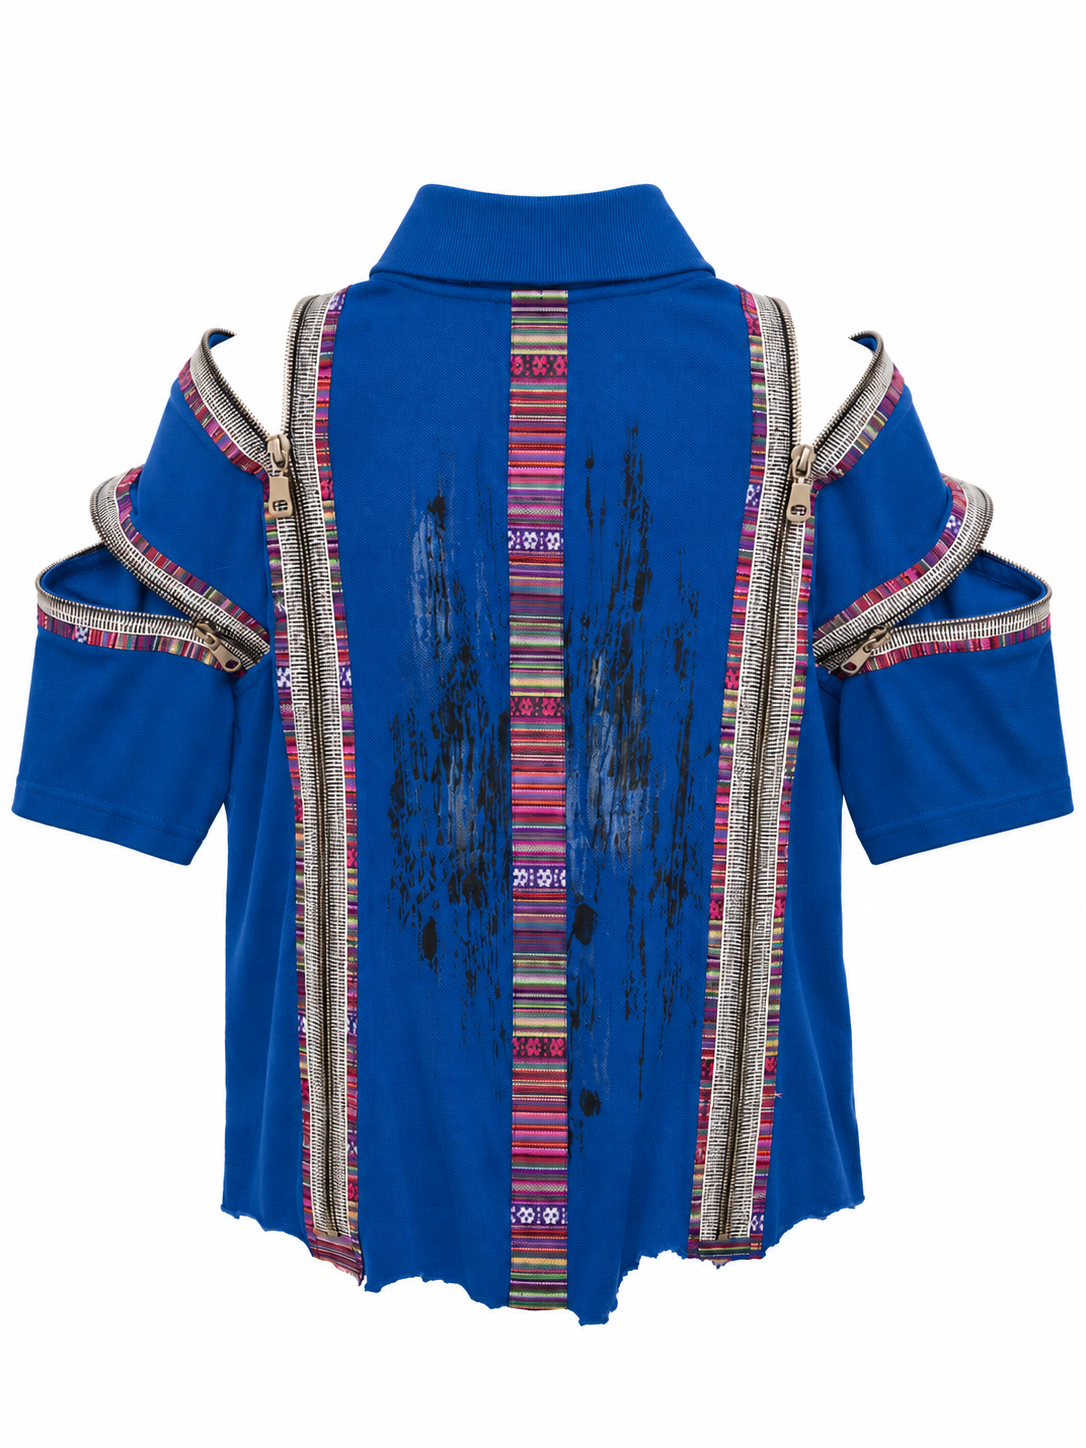
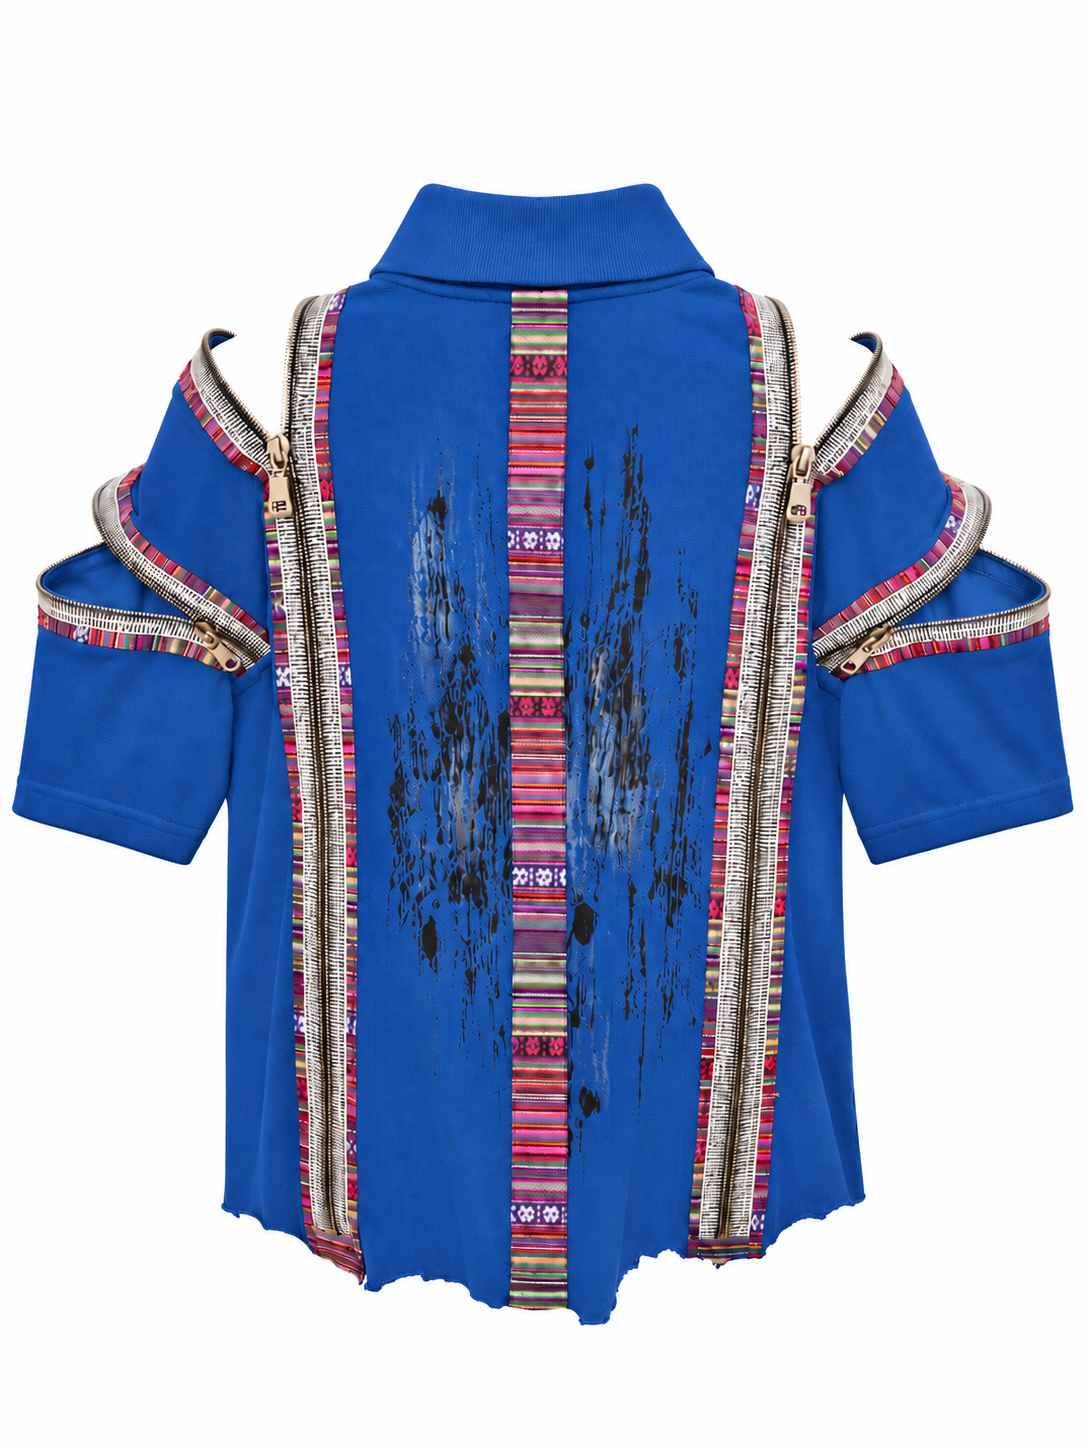
Save reform case images, unified blue colors and cropped vest comparisons

Changed region(s): [[0.0304, 0.1243, 0.9724, 0.9323]]

diff --git a/web/src/components/real-case-compare.tsx b/web/src/components/real-case-compare.tsx
@@ -3,8 +3,10 @@
 import { useRef, useState, type PointerEvent } from "react";
 import { ChevronsLeftRight } from "lucide-react";
 
-/** Display crops only: the supplied photographs, colors and garment details remain untouched. */
-export function RealCaseCompare() {
+/** Front uses the existing photos; back pairs the shared before with a flattened after. */
+export function RealCaseCompare({ side = "front" }: { side?: "front" | "back" }) {
+  const isBack = side === "back";
+  const label = isBack ? "뒷면" : "앞면";
   const [split, setSplit] = useState(50);
   const frame = useRef<HTMLDivElement>(null);
   const dragging = useRef(false);
@@ -14,25 +16,25 @@ export function RealCaseCompare() {
   };
 
   return (
-    <figure aria-label="파란 폴로셔츠의 실제 리폼 전후 사진">
+    <figure aria-label={`파란 폴로셔츠 ${label} 리폼 전후 비교`}>
       <div ref={frame} className="relative isolate aspect-square overflow-hidden rounded-[22px] bg-white select-none">
         {/* The selected full after photo uses the same display size as the before crop.
             No separate shortening; both sleeves remain visible. */}
-        <svg role="img" aria-label="리폼 후: 양쪽 소매와 고무줄 밑단이 보이는 리폼 옷" viewBox="-24 -24 688 688" className="absolute inset-0 h-full w-full">
-          <image href="/cases/blue-polo-rivets-hd.png" width="640" height="640" />
+        <svg role="img" aria-label={`리폼 후 ${label}${isBack ? ": 하트 무늬와 고무줄 밑단, 평면화 이미지" : ""}`} viewBox="-24 -24 688 688" className="absolute inset-0 h-full w-full">
+          <image href={isBack ? "/cases/blue-polo-back-frontmatch-v2.png" : "/cases/blue-polo-rivets-hd-unified.png"} width="640" height="640" />
         </svg>
         <div className="absolute inset-0 bg-white" style={{ clipPath: `inset(0 ${100 - split}% 0 0)` }}>
           {/* Full source photograph including both sleeves, with breathing room. */}
-          <svg role="img" aria-label="리폼 전: 흰색 가슴 글씨가 있는 원래 파란 폴로셔츠" viewBox="-24 -24 688 688" className="h-full w-full">
-            <svg x="0" y="0" width="640" height="640" viewBox="0 0 640 640" overflow="hidden">
+          <svg role="img" aria-label={`리폼 전 ${label}${isBack ? " AI 재현" : ": 흰색 가슴 글씨가 있는 원래 파란 폴로셔츠"}`} viewBox="-24 -24 688 688" className="h-full w-full">
+            {isBack ? <image href="/cases/blue-polo-common/before-back-relaxed-unified.png" width="640" height="640" /> : <svg x="0" y="0" width="640" height="640" viewBox="0 0 640 640" overflow="hidden">
               <image href="/cases/blue-polo-pair.png" width="1280" height="640" />
-            </svg>
+            </svg>}
           </svg>
         </div>
         <span className="pointer-events-none absolute left-3 top-3 rounded-full bg-black/65 px-3 py-1.5 text-xs font-semibold text-white">리폼 전</span>
         <span className="pointer-events-none absolute right-3 top-3 rounded-full bg-accent px-3 py-1.5 text-xs font-semibold text-white">리폼 후</span>
         <div
-          role="slider" tabIndex={0} aria-label="실제 리폼 전후 비교" aria-valuemin={0} aria-valuemax={100}
+          role="slider" tabIndex={0} aria-label={`파란 PK티 ${label} 리폼 전후 비교 막대`} aria-valuemin={0} aria-valuemax={100}
           aria-valuenow={Math.round(split)} aria-valuetext={`리폼 전 ${Math.round(split)}%, 리폼 후 ${100 - Math.round(split)}%`}
           onPointerDown={(event) => { dragging.current = true; event.currentTarget.setPointerCapture(event.pointerId); move(event); }}
           onPointerMove={(event) => { if (dragging.current) move(event); }}
@@ -51,14 +53,18 @@ export function RealCaseCompare() {
             <ChevronsLeftRight size={22} aria-hidden />
           </span>
         </div>
-        <span className="pointer-events-none absolute bottom-3 left-3 rounded-full bg-white/95 px-3 py-1.5 text-xs font-bold text-ink">실제 리폼 사례</span>
+        <span className="pointer-events-none absolute bottom-3 left-3 rounded-full bg-white/95 px-3 py-1.5 text-xs font-bold text-ink">{isBack ? "뒷면 · 평면 비교" : "실제 리폼 사례"}</span>
       </div>
       <figcaption className="mt-3 text-center text-[12.5px] leading-relaxed text-muted">
-        막대를 좌우로 움직여 실제 리폼 전후를 비교해 보세요.
-        <span className="mt-1 block text-[11.5px]">디자인 비교를 위해 옷의 크기와 길이를 맞췄어요.</span>
+        막대를 좌우로 움직여 {label} 리폼 전후를 비교해 보세요.
+        <span className="mt-1 block text-[11.5px]">{isBack ? "비포는 AI 재현 이미지, 애프터는 실제 사진을 평면화한 이미지입니다." : "디자인 비교를 위해 옷의 크기와 길이를 맞췄어요."}</span>
       </figcaption>
-      <a href="/cases/blue-polo-rivets-hd.png" target="_blank" rel="noopener noreferrer" className="mt-3 flex min-h-11 items-center justify-center rounded-full border border-line bg-white px-4 text-[13px] font-semibold text-ink hover:border-accent focus-visible:outline-2 focus-visible:outline-accent">
-        리폼 후 원본 크게 보기 · 목깃과 소매 리벳 ↗
+      <div className="mt-2 flex justify-center gap-4 text-xs font-semibold">
+        <button type="button" onClick={() => setSplit(100)} className="min-h-10 underline underline-offset-4">비포 전체 보기</button>
+        <button type="button" onClick={() => setSplit(0)} className="min-h-10 underline underline-offset-4">애프터 전체 보기</button>
+      </div>
+      <a href={isBack ? "/cases/blue-polo-back-frontmatch-v2.png" : "/cases/blue-polo-rivets-hd-unified.png"} target="_blank" rel="noopener noreferrer" className="mt-3 flex min-h-11 items-center justify-center rounded-full border border-line bg-white px-4 text-[13px] font-semibold text-ink hover:border-accent focus-visible:outline-2 focus-visible:outline-accent">
+        {isBack ? "뒷면 평면화 이미지 크게 보기 ↗" : "리폼 후 원본 크게 보기 · 목깃과 소매 리벳 ↗"}
       </a>
     </figure>
   );

diff --git a/web/src/components/blue-crop-compare.tsx b/web/src/components/blue-crop-compare.tsx
@@ -1,0 +1,37 @@
+"use client";
+
+import { useState } from "react";
+import { ChevronsLeftRight } from "lucide-react";
+
+export function BlueCropCompare({ side }: { side: "front" | "back" }) {
+  const [split, setSplit] = useState(50);
+  const label = side === "front" ? "앞면" : "뒷면";
+  return <figure>
+    <div className="relative isolate aspect-square overflow-hidden rounded-[22px] bg-white focus-within:ring-2 focus-within:ring-accent">
+      <svg role="img" aria-label={`크롭 조끼 리폼 후 ${label}`} viewBox="0 0 1000 1000" className="absolute inset-0 h-full w-full">
+        {/* Align collar tips and span to the before image using uniform scaling only. */}
+        <image href={`/cases/blue-crop/after-${side}-unified.png`} x="40" y={side === "front" ? 0 : 5} width="920" height="920" preserveAspectRatio="xMidYMid meet" />
+      </svg>
+      <div className="absolute inset-0 bg-white" style={{ clipPath: `inset(0 ${100 - split}% 0 0)` }}>
+        <svg role="img" aria-label={`리폼 전 ${label}${side === "back" ? " AI 재현" : ""}`} viewBox="0 0 1000 1000" className="h-full w-full">
+          {side === "front" ? (
+            <svg x="40" y="0" width="920" height="920" viewBox="0 0 640 640" overflow="hidden">
+              {/* Use exactly the same before photograph and crop as the home page. */}
+              <image href="/cases/blue-polo-pair.png" width="1280" height="640" />
+            </svg>
+          ) : <image href="/cases/blue-polo-common/before-back-relaxed-unified.png" x="40" y="5" width="920" height="920" preserveAspectRatio="xMidYMid meet" />}
+        </svg>
+      </div>
+      <span className="pointer-events-none absolute left-3 top-3 rounded-full bg-black/65 px-3 py-2 text-[11px] font-semibold text-white">비포{side === "back" ? " 재현" : ""} · {label}</span>
+      <span className="pointer-events-none absolute right-3 top-3 rounded-full bg-[#53634b] px-3 py-2 text-[11px] font-semibold text-white">애프터 · {label}</span>
+      <div className="pointer-events-none absolute inset-y-0 w-0.5 bg-white shadow-sm" style={{ left: `${split}%` }} />
+      <span className="pointer-events-none absolute top-1/2 grid h-12 w-12 -translate-x-1/2 -translate-y-1/2 place-items-center rounded-full bg-white text-ink shadow-lg" style={{ left: `clamp(24px, ${split}%, calc(100% - 24px))` }}><ChevronsLeftRight size={24} aria-hidden /></span>
+      <input type="range" min="0" max="100" value={split} onChange={event => setSplit(Number(event.target.value))} aria-label={`크롭 조끼 리폼 PK티 ${label} 비포 애프터 비교 막대`} aria-valuetext={`비포 ${split}%, 애프터 ${100 - split}%`} className="absolute inset-0 m-0 h-full w-full cursor-ew-resize opacity-0" />
+    </div>
+    <figcaption className="mt-3 text-center text-xs leading-6 text-muted">막대를 좌우로 움직여 {label}의 변화를 확인해 보세요.{side === "front" && <span className="block">비포 전체 보기에서 ‘대한민국 사회적가치 페스타’ 가슴 로고를 확인할 수 있어요.</span>}</figcaption>
+    <div className="mt-2 flex justify-center gap-4 text-xs font-semibold">
+      <button type="button" onClick={() => setSplit(100)} className="min-h-10 underline underline-offset-4">비포 전체 보기</button>
+      <button type="button" onClick={() => setSplit(0)} className="min-h-10 underline underline-offset-4">애프터 전체 보기</button>
+    </div>
+  </figure>;
+}

diff --git a/web/src/screens/landing.tsx b/web/src/screens/landing.tsx
@@ -58,6 +58,13 @@ export default function Landing() {
 
       <section className="px-5 pt-6">
         <RealCaseCompare />
+        <h2 className="mb-4 mt-8 text-[23px] font-bold">뒷면의 변화</h2>
+        <RealCaseCompare side="back" />
+        <Link href="/cases/blue-crop" className="mt-5 flex items-center gap-4 rounded-[20px] border border-line bg-white p-3">
+          {/* eslint-disable-next-line @next/next/no-img-element */}
+          <img src="/cases/blue-crop/after-front-unified.png" alt="소매를 잘라낸 짧은 파란 레이어드 조끼" className="h-24 w-24 rounded-xl object-cover object-top" />
+          <div className="flex-1"><p className="text-xs text-muted">파란 PK티 시리즈</p><p className="mt-1 font-semibold">티셔츠와 원피스 위에<br />가볍게 걸치는 크롭 조끼</p><p className="mt-2 text-xs text-muted">앞면·뒷면 비포 애프터 보기 →</p></div>
+        </Link>
         <Link href="/cases/knit-yarn" className="mt-5 flex items-center gap-4 rounded-[20px] border border-line bg-white p-3">
           {/* eslint-disable-next-line @next/next/no-img-element */}
           <img src="/cases/knit-yarn/after-long.png" alt="털실로 리폼한 니트 베스트" className="h-24 w-24 rounded-xl object-contain" />
@@ -68,12 +75,12 @@ export default function Landing() {
         <div className="px-5">
           <Link href="/cases/blue-eye" className="mt-3 flex items-center gap-4 rounded-[20px] border border-line bg-white p-3">
             {/* eslint-disable-next-line @next/next/no-img-element */}
-            <img src="/cases/blue-eye/after-front-matched.png" alt="눈 모양 장식과 고무줄 밑단으로 리폼한 파란 PK티" className="h-24 w-24 rounded-xl object-contain" />
+            <img src="/cases/blue-eye/after-front-matched-unified.png" alt="눈 모양 장식과 고무줄 밑단으로 리폼한 파란 PK티" className="h-24 w-24 rounded-xl object-contain" />
             <div className="flex-1"><p className="text-xs text-muted">파란 PK티 시리즈</p><p className="mt-1 font-semibold">파란 PK티에 담은 작은 시선들</p><p className="mt-2 text-xs text-muted">앞면·뒷면 비포 애프터 보기 →</p></div>
           </Link>
           <Link href="/cases/blue-zipper" className="mt-3 flex items-center gap-4 rounded-[20px] border border-line bg-white p-3">
             {/* eslint-disable-next-line @next/next/no-img-element */}
-            <img src="/cases/blue-zipper/after-front-color.png" alt="지퍼와 컬러 테이프로 리폼한 파란 PK티" className="h-24 w-24 rounded-xl object-contain" />
+            <img src="/cases/blue-zipper/after-front-color-unified.png" alt="지퍼와 컬러 테이프로 리폼한 파란 PK티" className="h-24 w-24 rounded-xl object-contain" />
             <div className="flex-1"><p className="text-xs text-muted">지퍼와 컬러 테이프 리폼</p><p className="mt-1 font-semibold">파란 PK티, 지퍼로 새롭게</p><p className="mt-2 text-xs text-muted">앞면·뒷면 비포 애프터 보기 →</p></div>
           </Link>
           <Link href="/cases/transfer-sweatshirt" className="mt-3 flex items-center gap-4 rounded-[20px] border border-line bg-white p-3">

diff --git a/web/src/app/cases/blue-crop/page.tsx b/web/src/app/cases/blue-crop/page.tsx
@@ -1,0 +1,34 @@
+import type { Metadata } from "next";
+import Link from "next/link";
+import { Logo, PhoneFrame } from "@/components/app-frame";
+import { BlueCropCompare } from "@/components/blue-crop-compare";
+
+export const metadata: Metadata = {
+  title: "파란 PK티, 짧은 레이어드 조끼로 · 리폼 편의점",
+  description: "소매를 잘라내고 길이를 짧게 줄여 티셔츠나 원피스 위에 걸쳐 입는 크롭 조끼로 리폼했어요.",
+};
+
+export default function BlueCropCase() {
+  return <PhoneFrame>
+    <header className="flex items-center justify-between border-b border-line px-5 py-5">
+      <Logo small /><Link href="/" className="text-sm font-semibold">← 홈으로</Link>
+    </header>
+    <main className="px-5 pb-8">
+      <section className="py-8">
+        <p className="text-xs font-bold text-accent">파란 PK티 시리즈</p>
+        <h1 className="mt-4 text-[31px] font-extrabold leading-tight">소매는 덜고, 길이는 짧게<br />가볍게 걸치는 크롭 조끼</h1>
+        <p className="mt-4 text-sm leading-7 text-muted">소매를 잘라내고 몸판 길이를 과감하게 줄였어요. 티셔츠나 원피스 위에 걸쳐 입는 짧은 레이어드 조끼입니다. 바코드 무늬와 인물 장식, 잘라낸 밑단이 새로운 표정을 만들어요.</p>
+        <nav className="mt-4 flex gap-5 text-sm font-semibold" aria-label="비교 위치"><a href="#front">앞면 비교 ↓</a><a href="#back">뒷면 비교 ↓</a></nav>
+      </section>
+      <section id="front" aria-labelledby="front-title">
+        <h2 id="front-title" className="mb-4 text-[23px] font-bold">01. 앞면의 변화</h2>
+        <BlueCropCompare side="front" />
+      </section>
+      <section id="back" className="mt-8" aria-labelledby="back-title">
+        <h2 id="back-title" className="mb-4 text-[23px] font-bold">02. 뒷면의 변화</h2>
+        <BlueCropCompare side="back" />
+      </section>
+      <p className="mt-6 text-xs leading-6 text-muted">애프터는 첨부 사진을 바탕으로 색상과 에리 크기를 조정한 평면화 이미지입니다. 기존 비포의 파란색을 기준으로 맞췄으며, 소매 절개와 짧아진 길이를 비교할 수 있어요. 뒷면 비포는 AI 재현 이미지입니다.</p>
+    </main>
+  </PhoneFrame>;
+}

diff --git a/web/src/components/blue-zipper-compare.tsx b/web/src/components/blue-zipper-compare.tsx
@@ -9,8 +9,8 @@ export function BlueZipperCompare({ side }: { side: "front" | "back" }) {
   return <figure>
     <div className="relative isolate aspect-square overflow-hidden rounded-[22px] bg-white focus-within:ring-2 focus-within:ring-accent">
       <svg role="img" aria-label={`지퍼 리폼 후 ${label}`} viewBox="0 0 1000 1000" className="absolute inset-0 h-full w-full">
-        {/* Align collar tips and span to the before image using uniform scaling only. */}
-        <image href={`/cases/blue-zipper/after-${side}-color.png`} x="125" y={side === "front" ? -96 : -81} width="750" height="1000" preserveAspectRatio="xMidYMid meet" />
+        {/* Keep the enlarged back proportions; the tailored hem ends above the before hem. */}
+        <image href={side === "back" ? "/cases/blue-zipper/after-back-neat-hem.png" : "/cases/blue-zipper/after-front-color-unified.png"} x={side === "front" ? 117.5 : 71.6} y={side === "front" ? -98.84 : -99.08} width={side === "front" ? 765 : 856.8} height={side === "front" ? 1020 : 1142.4} preserveAspectRatio="xMidYMid meet" />
       </svg>
       <div className="absolute inset-0 bg-white" style={{ clipPath: `inset(0 ${100 - split}% 0 0)` }}>
         <svg role="img" aria-label={`리폼 전 ${label}${side === "back" ? " AI 재현" : ""}`} viewBox="0 0 1000 1000" className="h-full w-full">
@@ -19,7 +19,7 @@ export function BlueZipperCompare({ side }: { side: "front" | "back" }) {
               {/* Use exactly the same before photograph and crop as the home page. */}
               <image href="/cases/blue-polo-pair.png" width="1280" height="640" />
             </svg>
-          ) : <image href="/cases/blue-polo-common/before-back-relaxed.png" x="40" y="5" width="920" height="920" preserveAspectRatio="xMidYMid meet" />}
+          ) : <image href="/cases/blue-polo-common/before-back-relaxed-unified.png" x="40" y="5" width="920" height="920" preserveAspectRatio="xMidYMid meet" />}
         </svg>
       </div>
       <span className="pointer-events-none absolute left-3 top-3 rounded-full bg-black/65 px-3 py-2 text-[11px] font-semibold text-white">비포{side === "back" ? " 재현" : ""} · {label}</span>

diff --git a/web/src/components/blue-eye-compare.tsx b/web/src/components/blue-eye-compare.tsx
@@ -10,7 +10,7 @@ export function BlueEyeCompare({ side }: { side: "front" | "back" }) {
     <div className="relative isolate aspect-square overflow-hidden rounded-[22px] bg-white focus-within:ring-2 focus-within:ring-accent">
       <svg role="img" aria-label={`눈 모양 패치 리폼 후 ${label}`} viewBox="0 0 1000 1000" className="absolute inset-0 h-full w-full">
         {/* Align collar tips and span to the before image using uniform scaling only. */}
-        <image href={`/cases/blue-eye/after-${side}-matched.png`} x="40" y={side === "front" ? 17 : 5} width="920" height="920" preserveAspectRatio="xMidYMid meet" />
+        <image href={`/cases/blue-eye/after-${side}-matched-unified.png`} x="40" y={side === "front" ? 17 : 5} width="920" height="920" preserveAspectRatio="xMidYMid meet" />
       </svg>
       <div className="absolute inset-0 bg-white" style={{ clipPath: `inset(0 ${100 - split}% 0 0)` }}>
         <svg role="img" aria-label={`리폼 전 ${label}${side === "back" ? " AI 재현" : ""}`} viewBox="0 0 1000 1000" className="h-full w-full">
@@ -19,7 +19,7 @@ export function BlueEyeCompare({ side }: { side: "front" | "back" }) {
               {/* Use exactly the same before photograph and crop as the home page. */}
               <image href="/cases/blue-polo-pair.png" width="1280" height="640" />
             </svg>
-          ) : <image href="/cases/blue-polo-common/before-back-relaxed.png" x="40" y="5" width="920" height="920" preserveAspectRatio="xMidYMid meet" />}
+          ) : <image href="/cases/blue-polo-common/before-back-relaxed-unified.png" x="40" y="5" width="920" height="920" preserveAspectRatio="xMidYMid meet" />}
         </svg>
       </div>
       <span className="pointer-events-none absolute left-3 top-3 rounded-full bg-black/65 px-3 py-2 text-[11px] font-semibold text-white">비포{side === "back" ? " 재현" : ""} · {label}</span>
